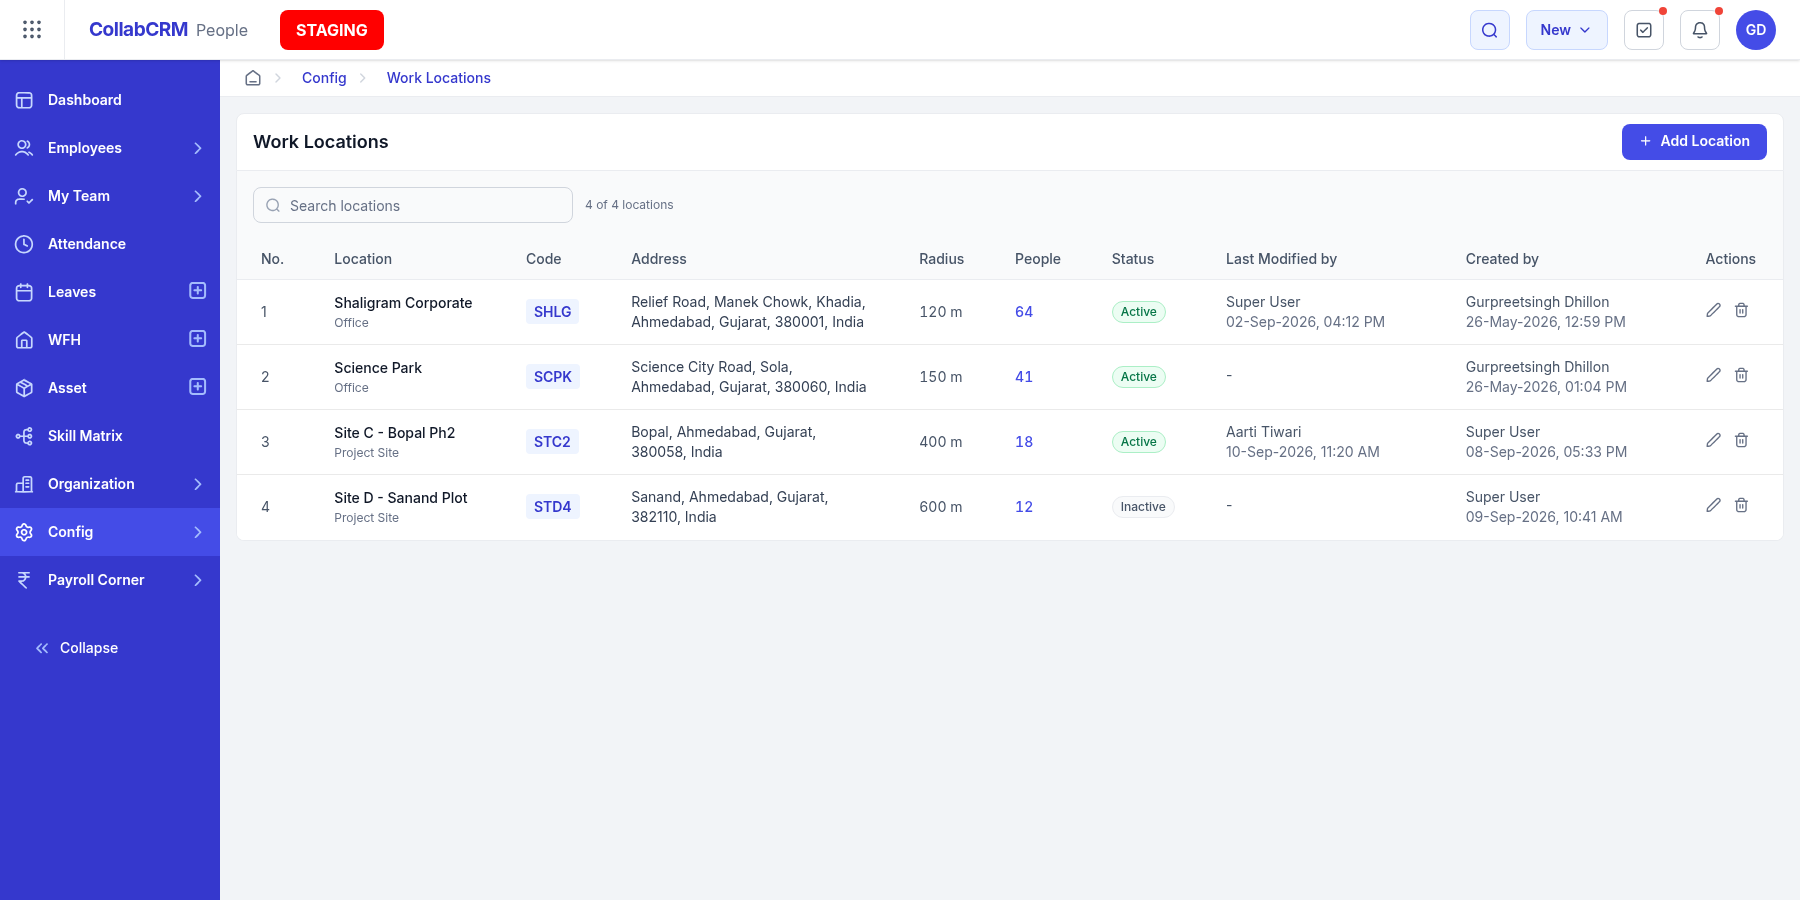
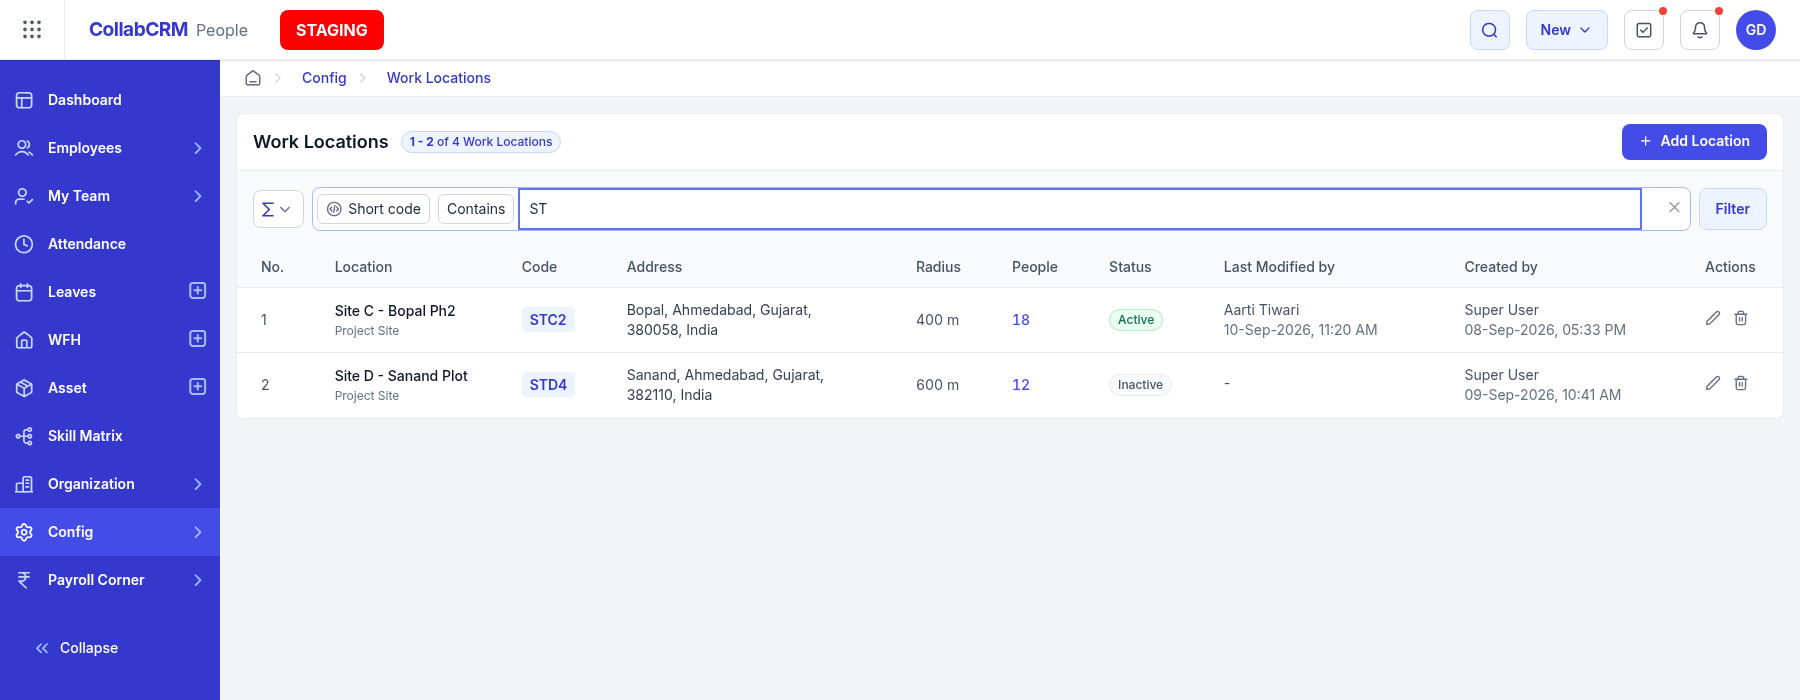
feat: add manual toggle for filter menu and remove type field from ZoneList filters

diff --git a/src/components/LookupFilter.jsx b/src/components/LookupFilter.jsx
@@ -30,13 +30,16 @@ const Chip = ({ icon, children }) => (
 export default function LookupFilter({ fields, onChange, placeholder = 'Filter Results...' }) {
   const [mode, setMode] = useState('lookup')        // lookup | quick
   const [modeOpen, setModeOpen] = useState(false)
+  const [open, setOpen] = useState(false)   // the field / operator menu, opened by clicking
   const [field, setField] = useState(null)
   const [op, setOp] = useState(null)
   const [value, setValue] = useState('')
   const box = useRef(null), input = useRef(null)
 
   useEffect(() => {
-    const away = e => { if (box.current && !box.current.contains(e.target)) setModeOpen(false) }
+    const away = e => {
+      if (box.current && !box.current.contains(e.target)) { setModeOpen(false); setOpen(false) }
+    }
     document.addEventListener('mousedown', away)
     return () => document.removeEventListener('mousedown', away)
   }, [])
@@ -47,7 +50,7 @@ export default function LookupFilter({ fields, onChange, placeholder = 'Filter R
       : { mode, field: field?.key, op, value })
   }, [mode, field, op, value])   // eslint-disable-line
 
-  const reset = () => { setField(null); setOp(null); setValue(''); input.current?.focus() }
+  const reset = () => { setField(null); setOp(null); setValue(''); setOpen(false) }
   const stage = mode === 'quick' ? 'value' : !field ? 'field' : !op ? 'op' : 'value'
   const operators = field?.operators || ['Contains', 'Is']
 
@@ -93,18 +96,18 @@ export default function LookupFilter({ fields, onChange, placeholder = 'Filter R
                 <input ref={input} type="text" value={value}
                   onChange={e => setValue(e.target.value)}
                   readOnly={stage !== 'value'}
-                  onFocus={() => setModeOpen(false)}
+                  onClick={() => { setModeOpen(false); if (stage !== 'value') setOpen(true) }}
                   placeholder={stage === 'field' ? placeholder : stage === 'op' ? '' : 'Search...'}
                   className="w-full 2xl:p-[7px] 2xl-to-xl:p-1 p-1 2xl:text-sm 2xl-to-xl:text-xs text-xs outline-none
                              placeholder:text-gray-400 bg-transparent" />
               </div>
 
-              {stage === 'field' && (
+              {open && stage === 'field' && (
                 <ul className={MENU} style={{ top: '100%' }}>
                   {fields
                     .filter(f => f.label.toLowerCase().includes(value.toLowerCase()))
                     .map(f => (
-                      <li key={f.key} onClick={() => { setField(f); setValue(''); input.current?.focus() }} className={ROW}>
+                      <li key={f.key} onClick={() => { setField(f); setValue(''); setOpen(true) }} className={ROW}>
                         <span><div className="flex items-center">
                           <span className={`icon-${f.icon} ${ICON}`} />
                           <span>{f.label}</span>
@@ -114,10 +117,10 @@ export default function LookupFilter({ fields, onChange, placeholder = 'Filter R
                 </ul>
               )}
 
-              {stage === 'op' && (
+              {open && stage === 'op' && (
                 <ul className={MENU} style={{ top: '100%' }}>
                   {operators.map(o => (
-                    <li key={o} onClick={() => { setOp(o); input.current?.focus() }} className={ROW}>
+                    <li key={o} onClick={() => { setOp(o); setOpen(false); input.current?.focus() }} className={ROW}>
                       <span>{o}</span>
                     </li>
                   ))}
@@ -131,7 +134,7 @@ export default function LookupFilter({ fields, onChange, placeholder = 'Filter R
       {/* clear everything */}
       <div className="w-8 shrink-0 -ms-10 z-10 flex justify-center">
         {(field || value) && (
-          <button type="button" onClick={() => { setField(null); setOp(null); setValue('') }}>
+          <button type="button" onClick={() => { setField(null); setOp(null); setValue(''); setOpen(false) }}>
             <Icon name="x-close" className="text-lg text-gray-400 hover:text-gray-700" />
           </button>
         )}

diff --git a/src/screens/ZoneList.jsx b/src/screens/ZoneList.jsx
@@ -38,7 +38,6 @@ export default function ZoneList() {
     { key: 'name',    label: 'Location name', icon: 'image-user-check',  operators: ['Contains', 'Is'] },
     { key: 'code',    label: 'Short code',    icon: 'code-circle-03',    operators: ['Contains', 'Is'] },
     { key: 'address', label: 'Address',       icon: 'marker-pin-01',     operators: ['Contains'] },
-    { key: 'type',    label: 'Kind of place', icon: 'building-06',       operators: ['Is'] },
     { key: 'status',  label: 'Status',        icon: 'check-verified-02', operators: ['Is'] },
   ]
 
@@ -49,7 +48,6 @@ export default function ZoneList() {
     if (mode === 'quick')
       return [z.name, z.code, z.resolved_address].join(' ').toLowerCase().includes(v)
     const got = { name: z.name, code: z.code, address: z.resolved_address,
-                  type: z.zone_type === 'office' ? 'Office' : 'Site',
                   status: z.is_active ? 'Active' : 'Inactive' }[field] || ''
     return op === 'Is' ? got.toLowerCase() === v : got.toLowerCase().includes(v)
   }
